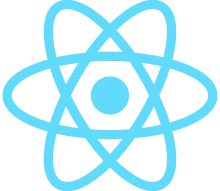
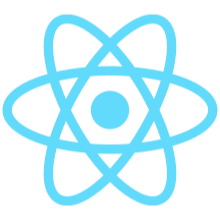
resizing images + updating techstack descriptions

diff --git a/src/data/techstack.ts b/src/data/techstack.ts
@@ -10,7 +10,7 @@ import Solidity from '../assets/techstack/solidity.png';
 const techstack = [
   {
     name: 'HardHat',
-    description: 'Ethereum development environment',
+    description: 'EVM dev environment',
     link: 'https://hardhat.org/',
     type: 'web3',
     image: HardHat,
@@ -24,28 +24,28 @@ const techstack = [
   },
   {
     name: 'Ethersjs',
-    description: 'Library for Blockchain interaction',
+    description: 'Blockchain interaction',
     link: 'https://docs.ethers.io/v5/',
     type: 'web3',
     image: Ethersjs,
   },
   {
     name: 'Solidity',
-    description: 'Smart contract scripting language',
+    description: 'Smart contract scripting',
     link: 'https://docs.soliditylang.org/en/v0.8.13/',
     type: 'web3',
     image: Solidity,
   },
   {
     name: 'Ganache',
-    description: 'Personal local blockchain for testing',
-    link: 'https://reactjs.org://trufflesuite.com/docs/ganache/',
+    description: 'Local blockchain for testing',
+    link: 'https://trufflesuite.com/docs/ganache/',
     type: 'web3',
     image: Ganache,
   },
   {
     name: 'FlashBots',
-    description: 'Send private bundled-transactions to miners',
+    description: 'Send private txs to miners',
     link: 'https://docs.flashbots.net/',
     type: 'web3',
     image: FlashBots,
